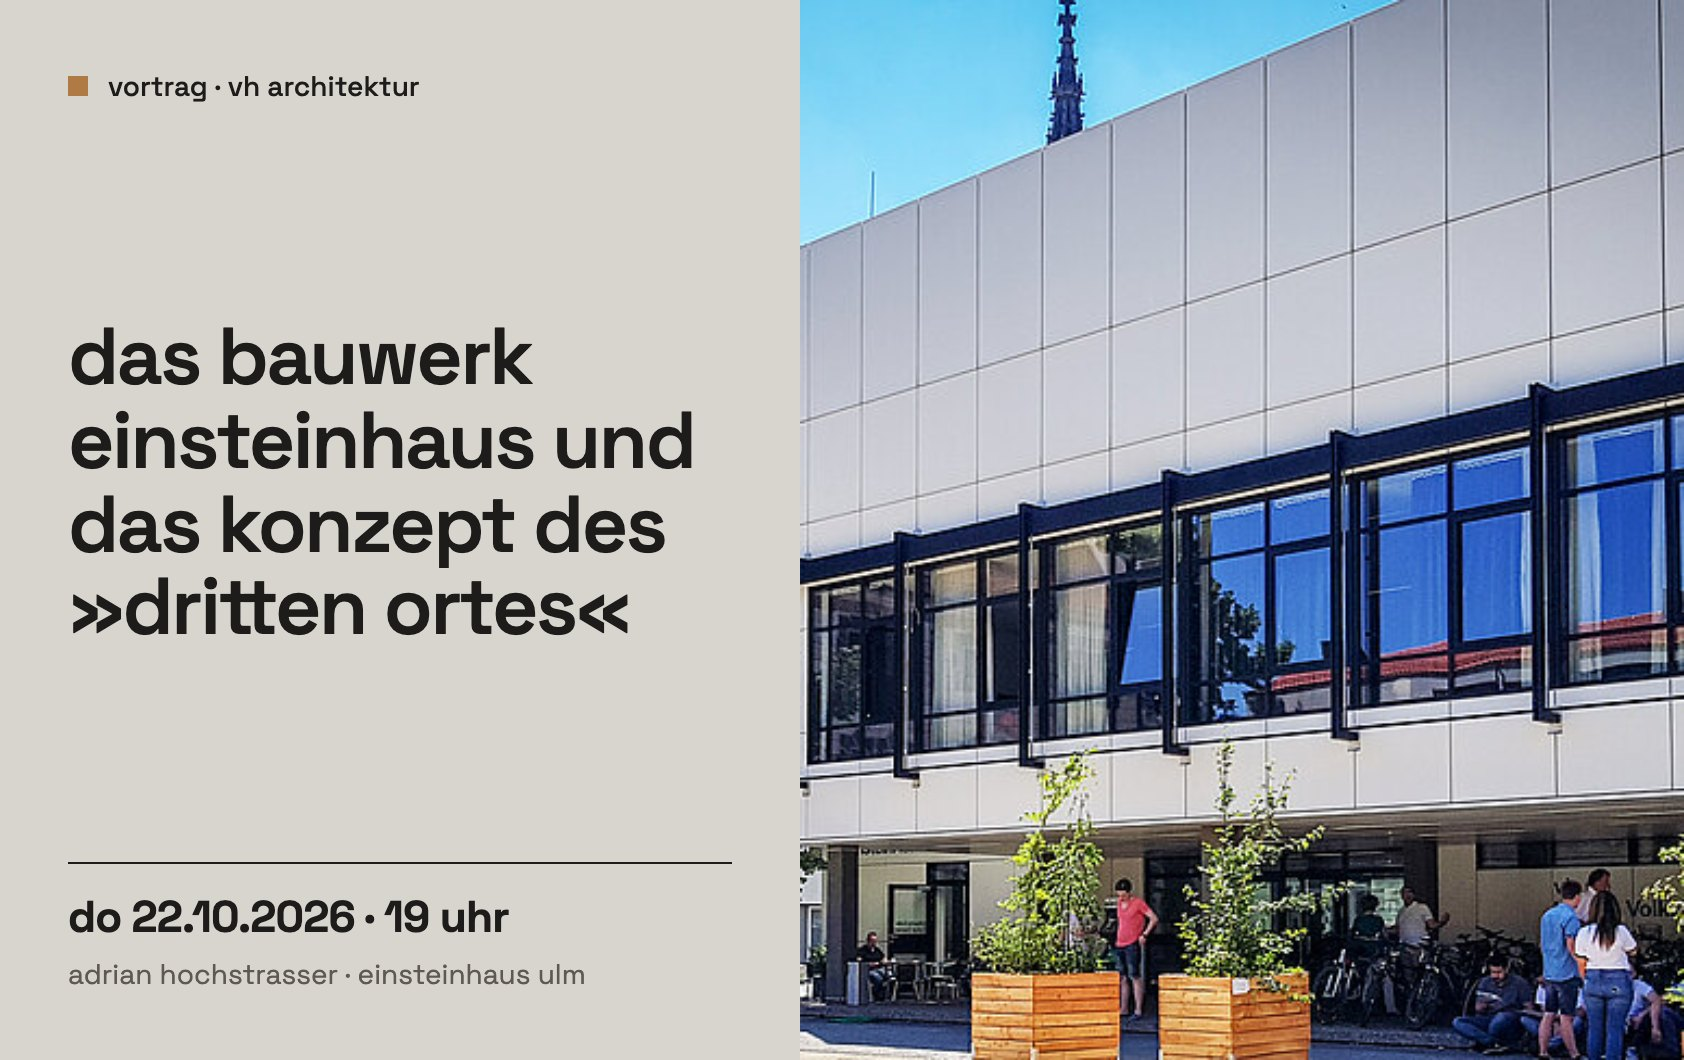
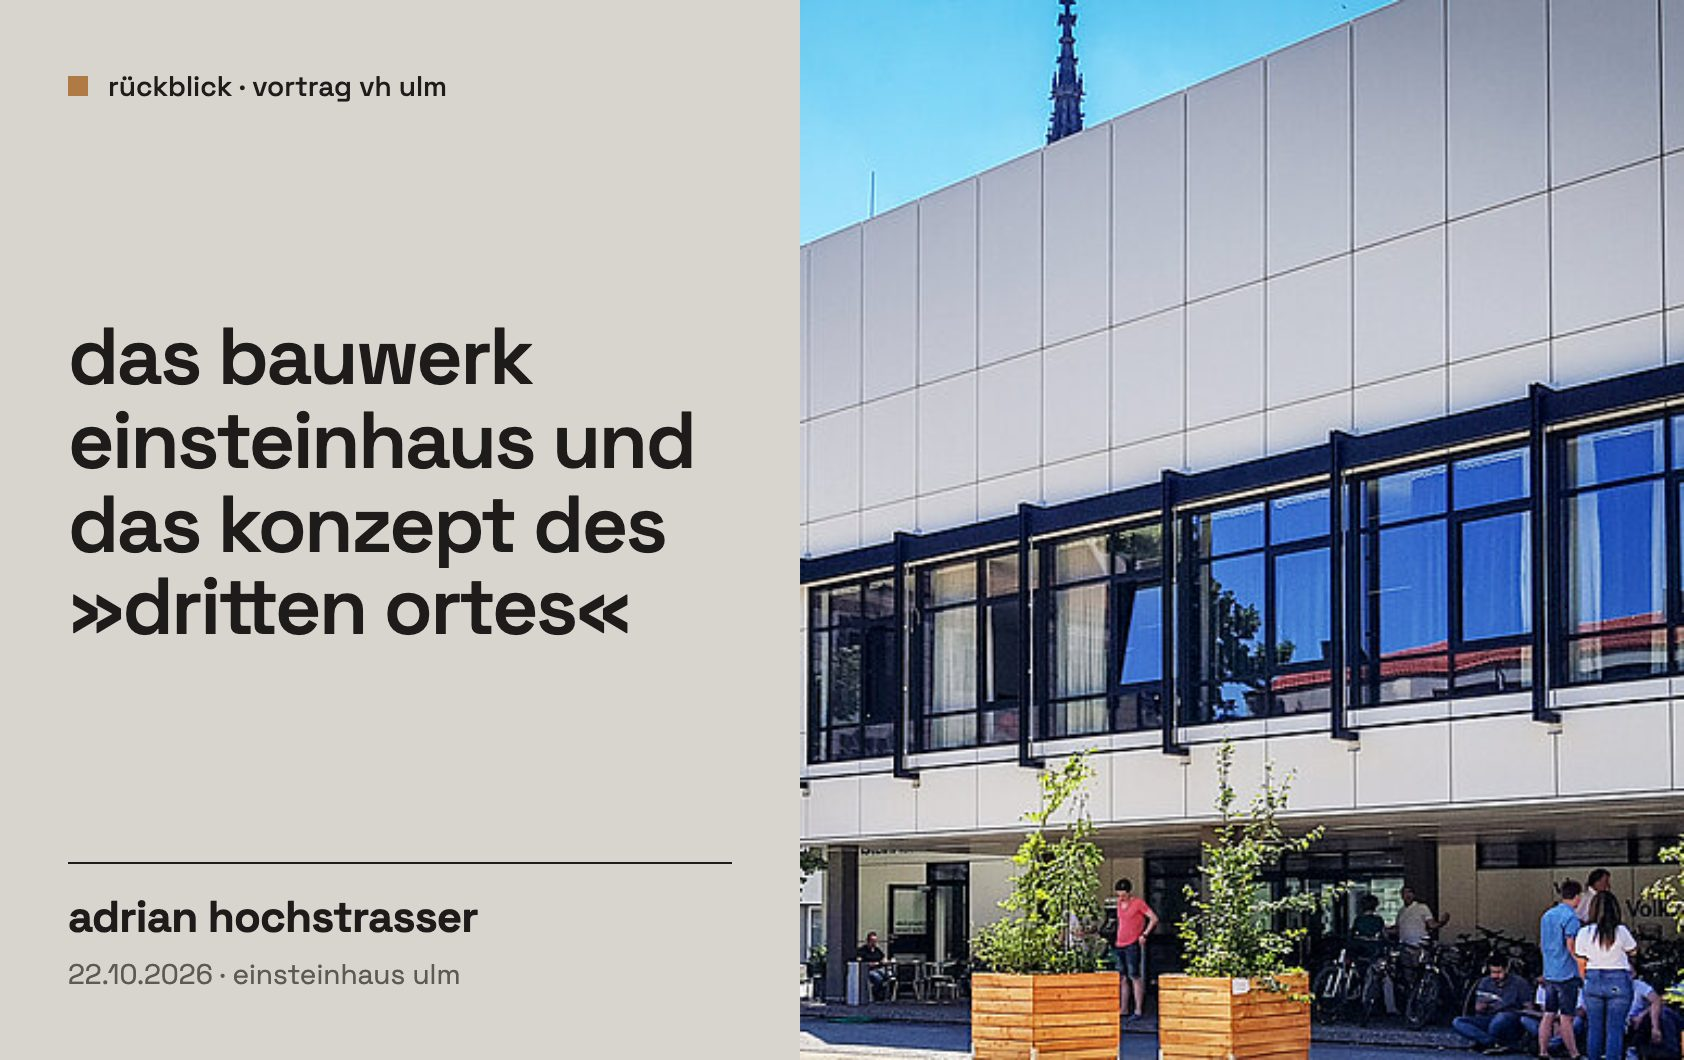
Startseite: Aktuelles mit dem News-Formular abgeglichen
Neue Meldung „Film-Premiere Fred Hochstrasser Architekt“ an vierter Stelle
(Link fred.hochstrasser.com). Vortrag im EinsteinHaus als Rückblick in der
Vergangenheitsform, mit neuem Bild und weiter hinten einsortiert.

Claude-Session: https://claude.ai/code/session_014sR4kXbQ7jREYBPQH4DGdH

Changed region(s): [[0.0309, 0.8406, 0.3397, 0.934], [0.0618, 0.0623, 0.2779, 0.0934]]

diff --git a/prototyp/assets/js/pages/index.js b/prototyp/assets/js/pages/index.js
@@ -50,9 +50,9 @@
     { img: 'assets/img/news/baubetriebshof-ulm.jpg', alt: 'Bau Betriebshof Stadt Ulm hochstrasser. Architekten', href: 'projekt-ba3-baubetriebshof-ulm.html',
       kind: 'Fertigstellung', year: '2024', title: 'Baubetriebshof der Stadt Ulm',
       desc: 'Neubau einer Fahrzeughalle für die Stadt Ulm. Stahl-/Holzkonstruktion (Foto: Conné van d’Grachten)' },
-    { img: 'assets/img/news/vortrag-einsteinhaus.jpg', alt: 'Vortrag Adrian hochstrasser Architekten Ulm VH Einsteinhaus',
-      kind: 'Veranstaltung', year: '2026', title: 'Vortrag im EinsteinHaus - Ulmer Volkshochschule',
-      desc: 'Anlässlich des 80-jährigen Jubiläums ist Adrian Hochstrasser zu Gast im Einsteinhaus und spricht über die Entstehung, Architektur und Sanierung des Gebäudes.' },
+    { img: 'assets/img/news/filmpremiere-fred-hochstrasser.jpg', alt: 'Film Fred Hochstrasser', href: 'https://fred.hochstrasser.com/',
+      kind: 'Veranstaltung', year: '2026', title: 'Film-Premiere Fred Hochstrasser Architekt',
+      desc: '60 Minuten über Fred Hochstrasser — Architekt und Gestalter. Wir freuen uns auf die Premiere der Film-Dokumentation über sein Leben und Lebenswerk.' },
     { img: 'assets/img/news/hugo-haering-auszeichnung.jpg', alt: 'Atelier aus Stroh hochstrasser Architekten',
       kind: 'Auszeichnung', year: '2023', title: 'Hugo-Häring-Auszeichnung',
       desc: 'Hugo-Häring-Auszeichnung 2023 für das Atelier von Dorothea Schrade. Das Strohballenatelier (Foto: Conné van d’Grachten)' },
@@ -65,6 +65,9 @@
     { img: 'assets/img/news/phase-nachhaltigkeit.jpg', alt: 'Initiative „Phase Nachhaltigkeit“', href: 'https://www.phase-nachhaltigkeit.jetzt/',
       kind: 'Presse', year: '2024', title: 'Phase Nachhaltigkeit',
       desc: 'Wir unterstützen die Initiative „Phase Nachhaltigkeit“. Damit unterstreichen wir unseren Anspruch, Verantwortung für ressourcenschonendes Bauen zu übernehmen.' },
+    { img: 'assets/img/news/vortrag-einsteinhaus.jpg', alt: 'Vortrag Adrian hochstrasser Architekten Ulm VH Einsteinhaus',
+      kind: 'Veranstaltung', year: '2026', title: 'Vortrag im EinsteinHaus - Ulmer Volkshochschule',
+      desc: 'Anlässlich des 80-jährigen Jubiläums war Adrian Hochstrasser zu Gast im Einsteinhaus und sprach über die Entstehung, Architektur und Sanierung des Gebäudes.' },
     { img: 'assets/img/news/strohballenatelier.jpg', alt: 'Strohballenatelier hochstrasser Architekten',
       kind: 'Fertigstellung', year: '2022', title: 'Strohballenatelier',
       desc: 'Ein Atelier aus Strohballen, alten Fenstern und Naturmaterialien. Das Ergebnis: Teamwork und eine Hugo-Häring-Auszeichnung 2023.' },
